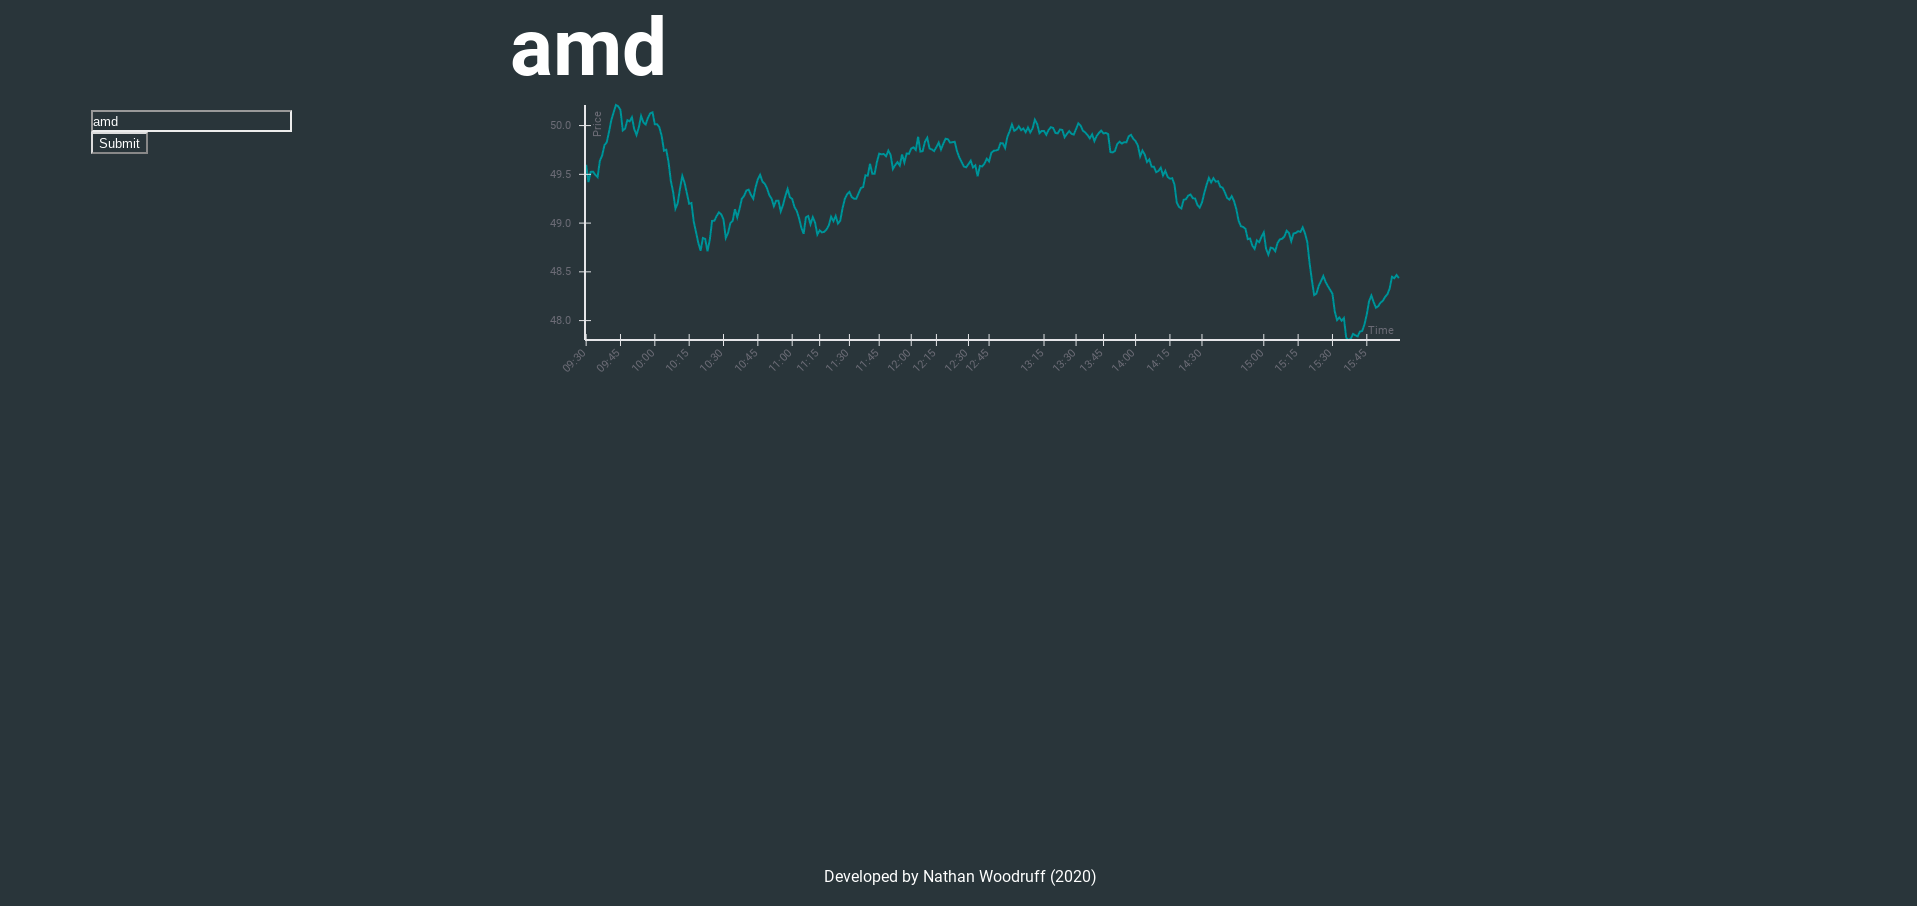
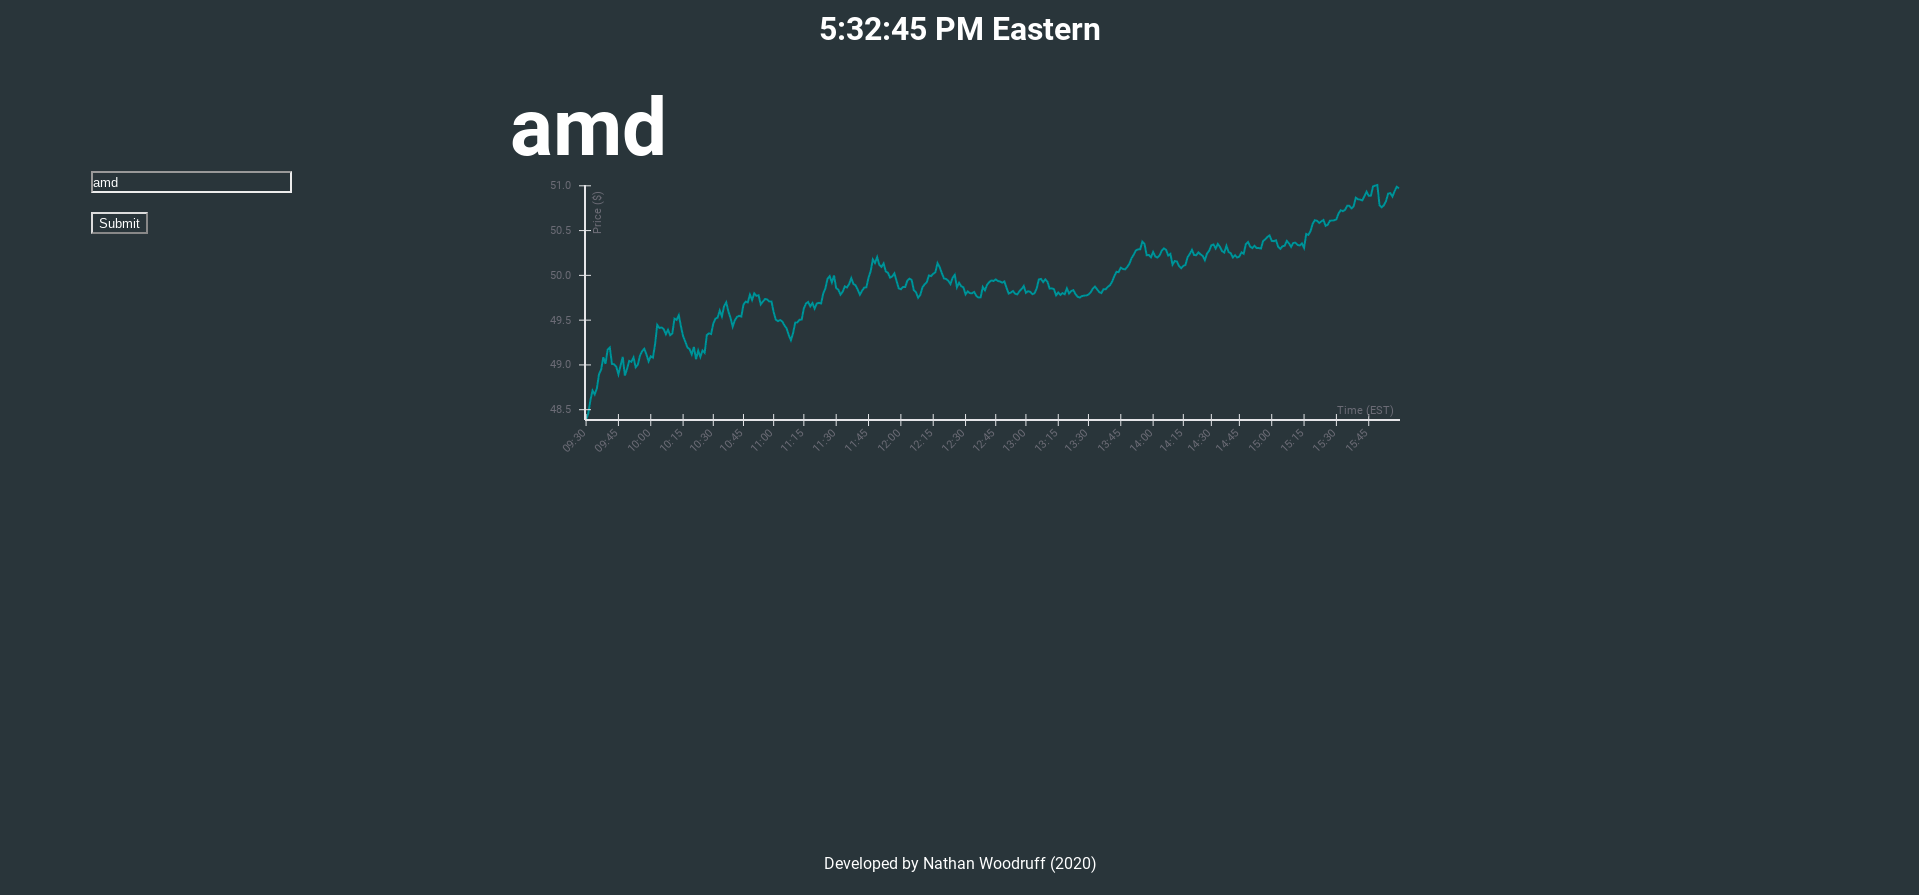
UI finishing

diff --git a/client/src/components/chart/Chart.js b/client/src/components/chart/Chart.js
@@ -6,7 +6,7 @@ export class Chart extends React.Component {
 
     componentDidMount() {}
 
-    limitTicks(arr) {
+    formatTicks(arr) {
         let ticks = []
          //obj = {x: "10:45", y: 17.76}
         arr.forEach(obj => {
@@ -31,11 +31,11 @@ export class Chart extends React.Component {
                         margin={{ left: 75, bottom: 75}} 
                         xType="ordinal">
                         <LineSeries data={this.props.data} />
-                        <XAxis title="Time" 
-                            tickValues={this.limitTicks(this.props.data)}
+                        <XAxis title="Time (EST)" 
+                            tickValues={this.formatTicks(this.props.data)}
                             tickLabelAngle={-45}
                         />
-                        <YAxis title="Price" />
+                        <YAxis title="Price ($)" />
                     </XYPlot>
                 </div>
             ) 

diff --git a/client/src/components/clock/Clock.js b/client/src/components/clock/Clock.js
@@ -14,20 +14,17 @@ export class Clock extends React.Component {
 
     clock() {
         let time = new Date();
-        
-        let dateString = time.toLocaleDateString();
-        let timeString = time.toLocaleTimeString();
 
-        this.setState({date: dateString, time: timeString});
+        let timeString = time.toLocaleTimeString('en-US', {timeZone: 'America/New_York'});
+
+        this.setState({time: timeString});
         setTimeout(this.clock, 1000);
     }
 
     render() {
         return (
             <div className="clock">
-                <h1>{this.state.date}</h1>
-                <h1>{this.state.time}</h1>
-                <br />
+                <h1>{this.state.time} Eastern</h1>
             </div>
         )
     }

diff --git a/webapi/ticker/fetch.js b/webapi/ticker/fetch.js
@@ -21,9 +21,9 @@ module.exports = async function callAPI(symbol) {
     })
     .then(response => response.json());
 
-    let data = await formatData(response);
+    let arr = await formatData(response);
 
-    return data;
+    return arr;
 }
 
 // Helper Methods
@@ -43,12 +43,11 @@ function formatData(data) {
     data.forEach(element => values.push(element.average));
 
 
-    let json = time.map((x, i) => ({x, y: values[i]}));
+    let arr = time.map((x, i) => ({x, y: values[i]}));
 
-    json = json.filter(function(element) {
+    arr = arr.filter(function(element) {
         return element.y != null;
     });
   
-    
-    return json;
+    return arr;
   }

diff --git a/client/src/components/app/App.css b/client/src/components/app/App.css
@@ -23,19 +23,26 @@
 }
 
 .chart {
-  margin: 1vh;
-  height: 90vh;
+  height: 80vh;
   align-self: center;
   justify-self: center;
   grid-row: 1 / span 3;
   grid-column: 2;
 }
 
+.clock {
+  width: 100%;
+  margin: 0;
+  height: 10vh;
+  display: flex;
+  justify-content: center;
+}
+
 
 footer {
   width: 100%;
   margin: 0;
-  height: 8vh;
+  height: 10vh;
   display: flex;
   align-items: center;
   justify-content: center;

diff --git a/client/src/components/form/Form.js b/client/src/components/form/Form.js
@@ -25,6 +25,7 @@ export class Form extends React.Component {
                 <form onSubmit={this.handleSubmit}>
                     <input type="text" value={this.state.symbol} onChange={this.handleChange} />
                 </form>
+                <br />
                 <button type="submit" onClick={this.handleSubmit}>Submit</button>
             </div>
         )

diff --git a/client/src/components/market/Market.js b/client/src/components/market/Market.js
@@ -12,7 +12,7 @@ export class Markets extends React.Component {
     }
 
     queryMarket(symbol) {
-        console.log("submitted")
+        console.log("submitted");
         console.log(symbol);
 
         (async() => {

diff --git a/client/src/components/app/App.js b/client/src/components/app/App.js
@@ -13,6 +13,7 @@ export class App extends React.Component {
   render () {
     return (
       <div className="app">
+        <Clock className="clock"/>
         <Markets />
         <Footer />
       </div>
